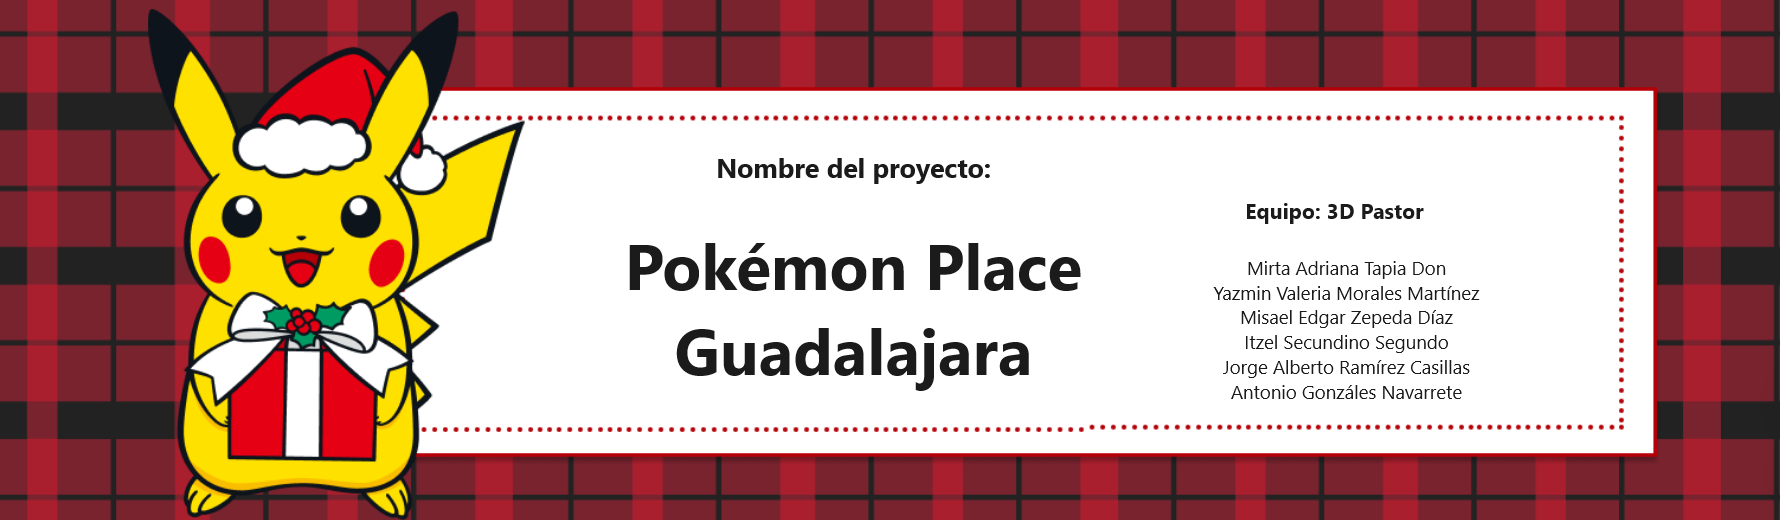
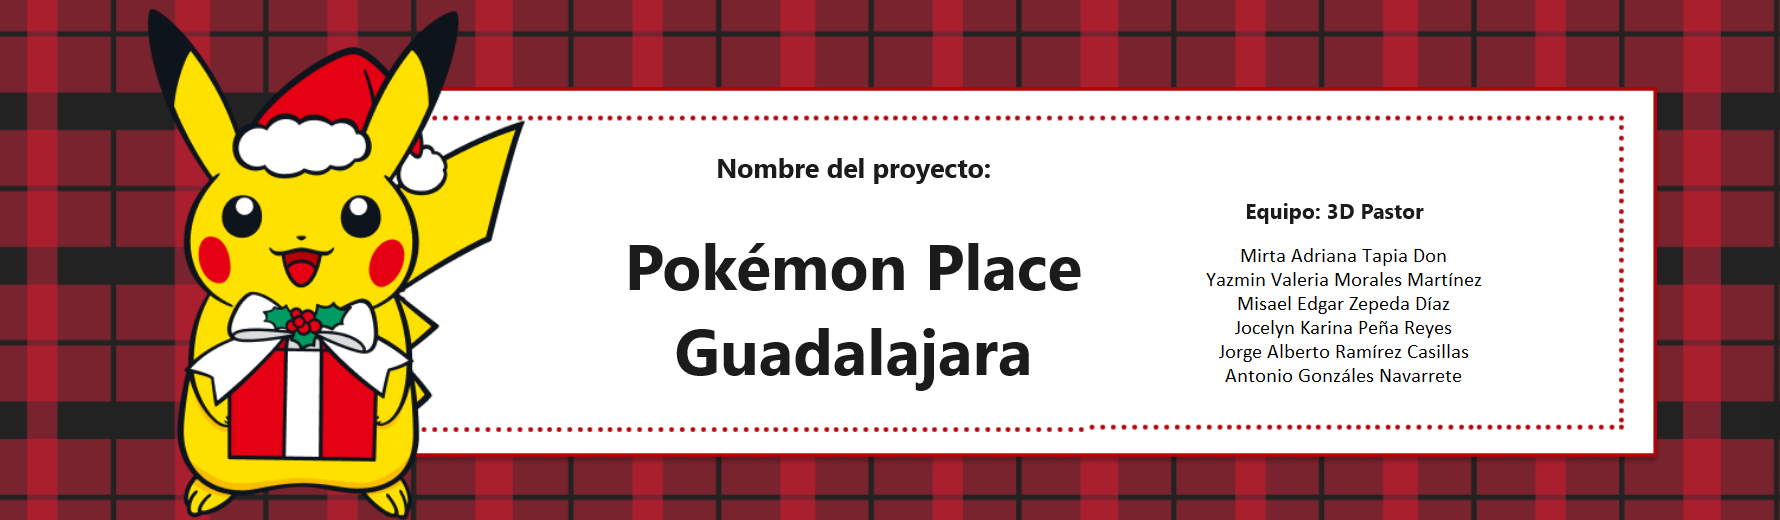
Se agrega cambios

Changed region(s): [[0.6798, 0.4615, 0.8343, 0.7692]]

diff --git a/src/pages/sobreNosotros/SobreNosotros.jsx b/src/pages/sobreNosotros/SobreNosotros.jsx
@@ -66,15 +66,6 @@ export default function SobreNosotros() {
                 rol={"Scrum Master"}
               />
 
-              {/* ---Itzel--- */}
-              <TarjetaSobreNosotros
-                src={itzel}
-                alt={"Itzel"}
-                nombre={"Itzel Secundino Segundo"}
-                residencia={"CDMX"}
-                rol={"Desarrollo"}
-              />
-
               {/* ---Tony--- */}
               <TarjetaSobreNosotros
                 src={tony}
